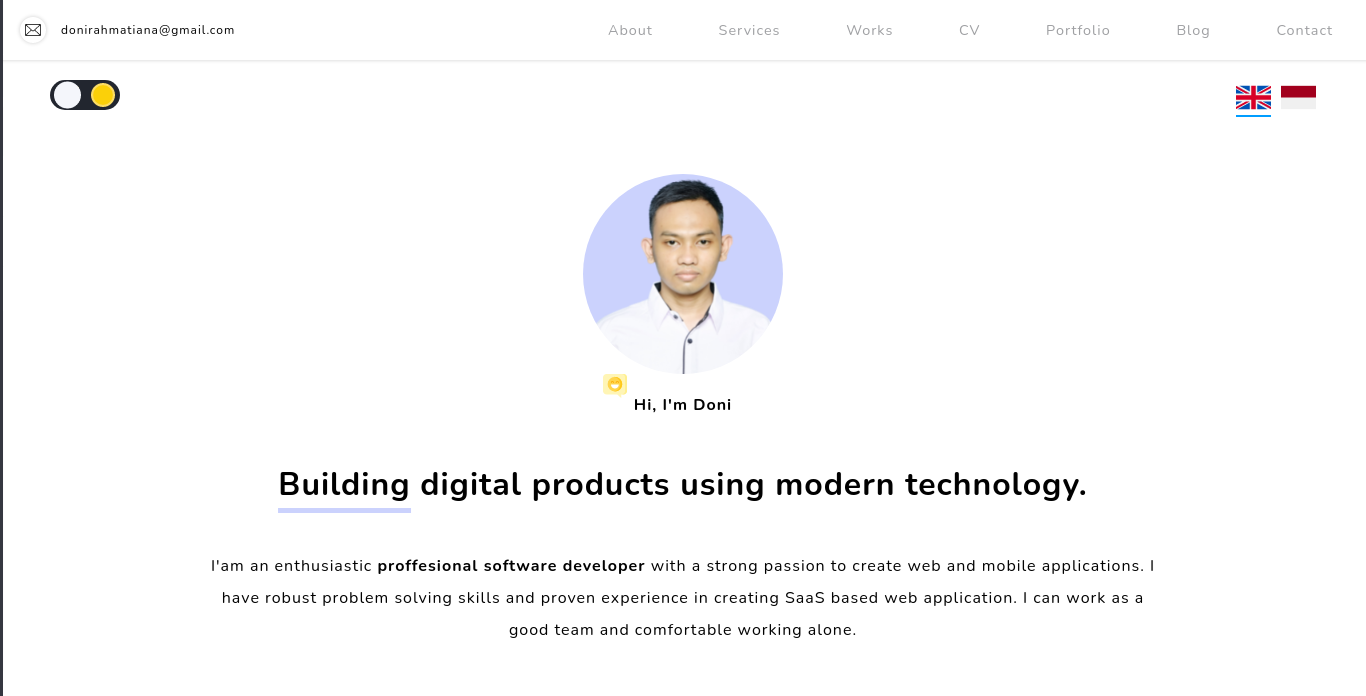
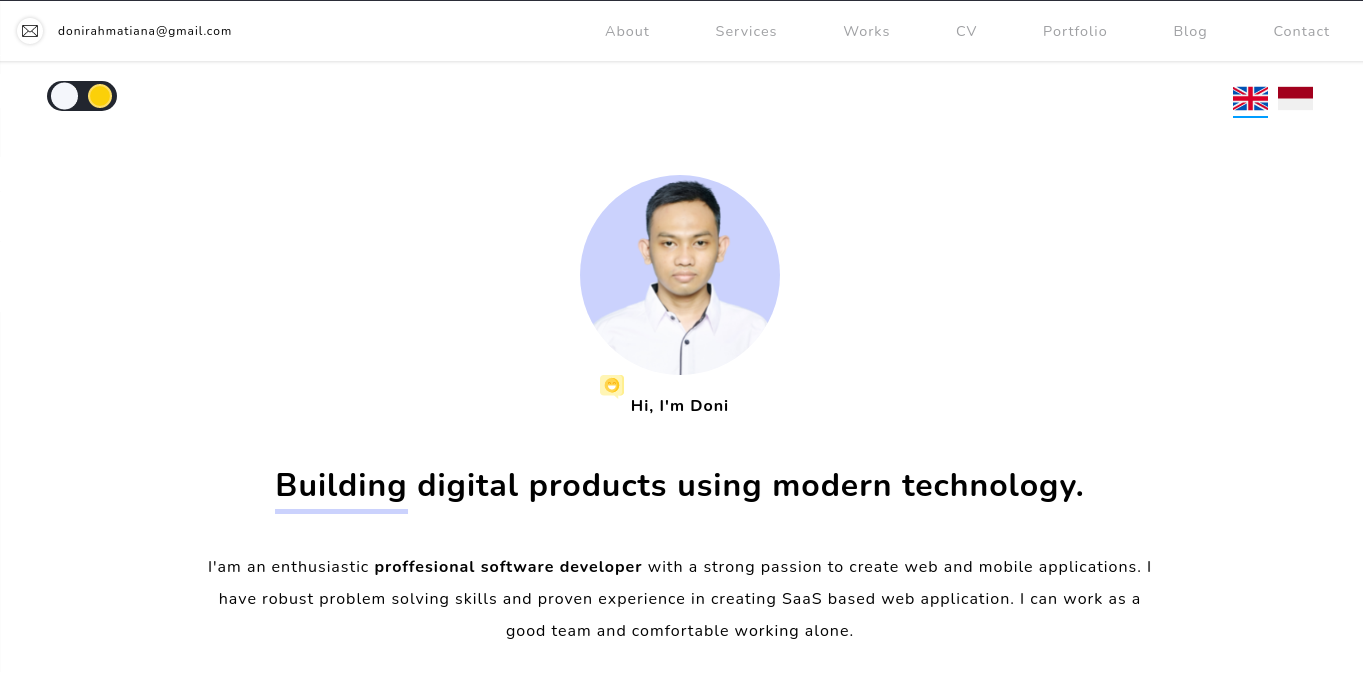
fix  screenshots

diff --git a/README.md b/README.md
@@ -4,10 +4,9 @@ This repo is containing source code of my online portfolio.
 
 ## User Interface
 
-![thumbnail 1](screenshots/thumbnail-1.png)
-![thumbnail 2](screenshots/thumbnail-2.png)
-
 <p align="center">
+  <img src="./screenshots/thumbnail-1.png?raw=true" alt="thumbnail 1" width="1362"/>
+  <img src="./screenshots/thumbnail-2.png?raw=true" alt="thumbnail 2" width="1362"/>
   <img src="./screenshots/thumbnail-3.png?raw=true" alt="thumbnail 3" height="607"/>
   <img src="./screenshots/thumbnail-4.png?raw=true" alt="thumbnail 4" height="607"/>
 </p>
